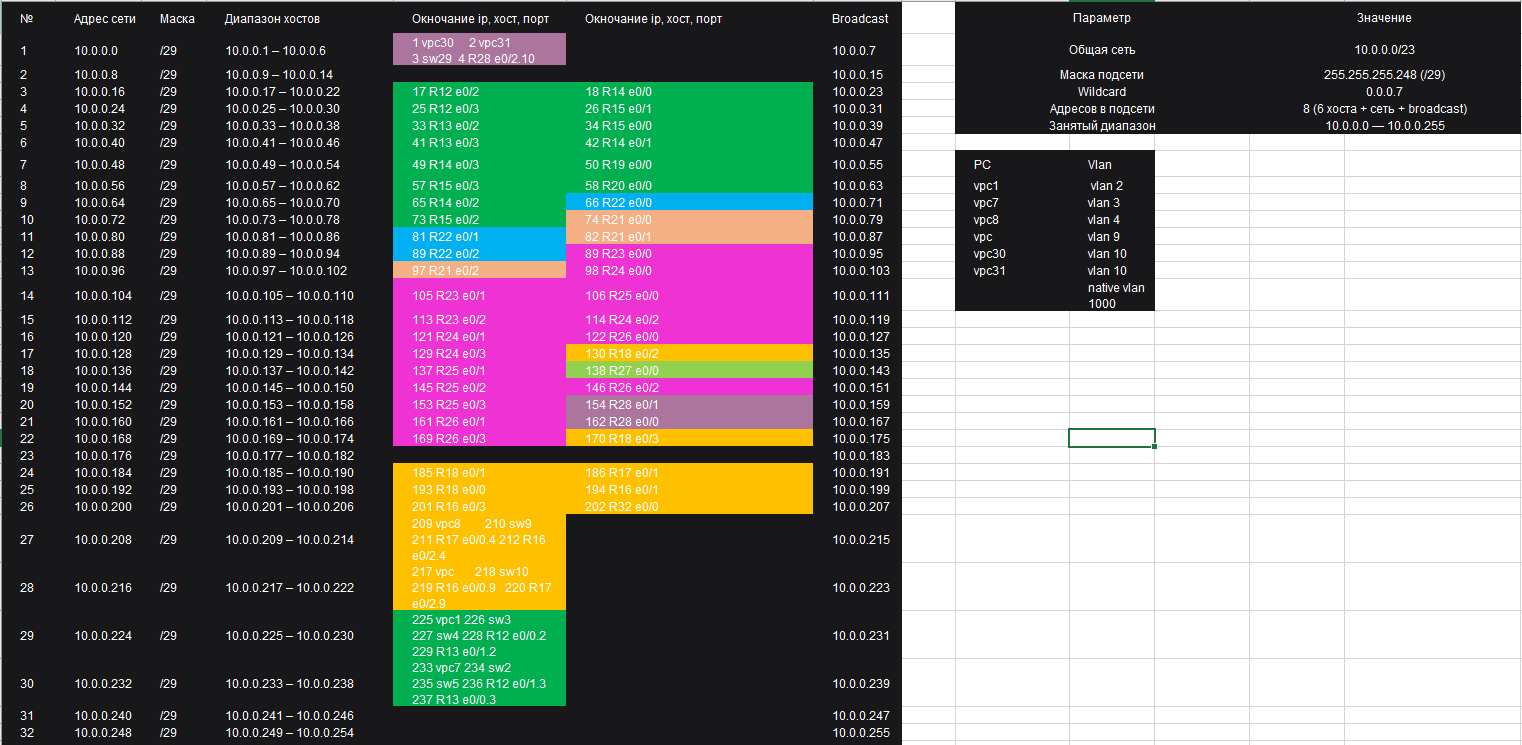
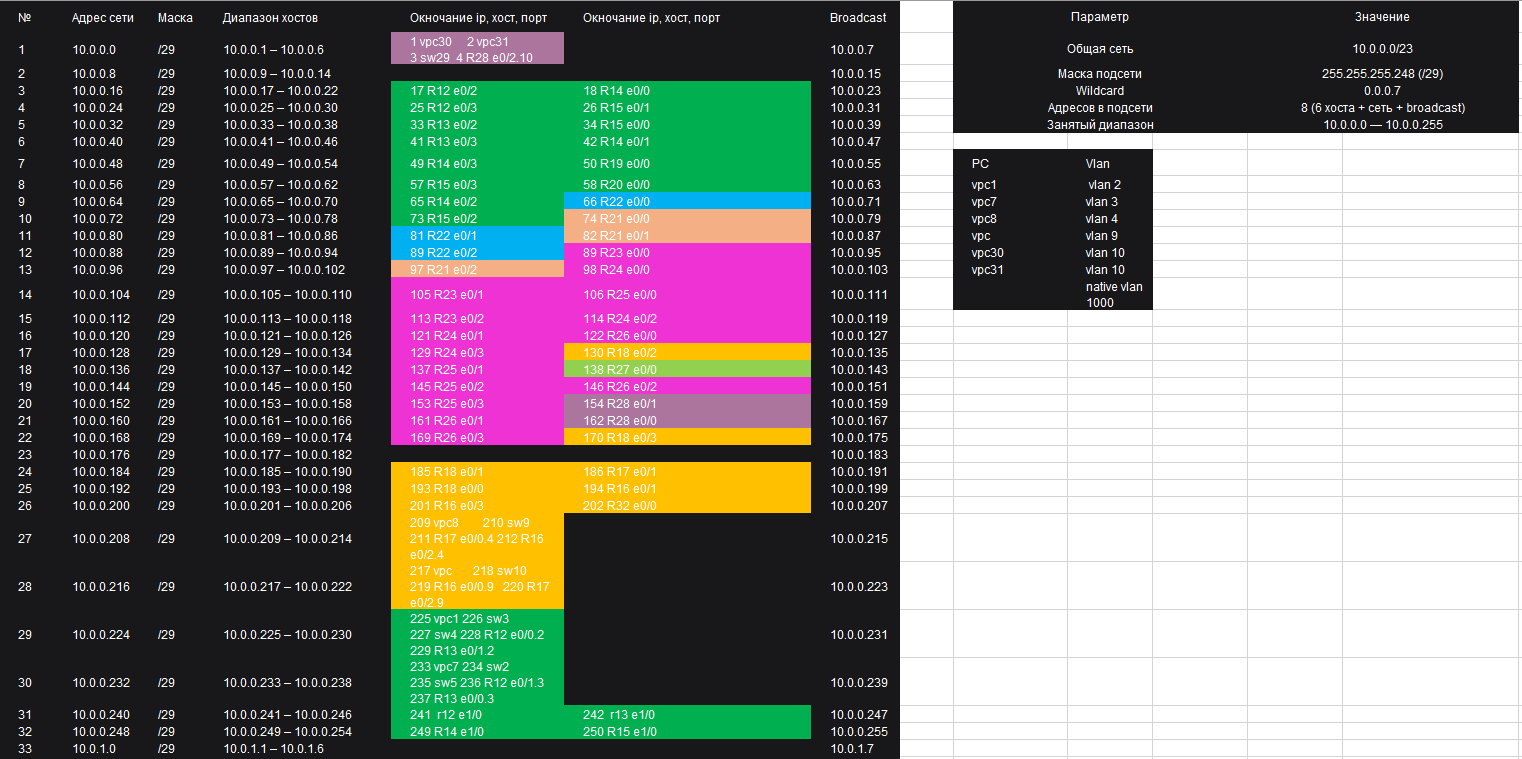
1

diff --git a/9 lesson/Readme.md b/9 lesson/Readme.md
@@ -1,0 +1,6 @@
+## Домашнее задание
+
+<img src="/9 lesson/img/0.png" alt="Alt text"/>
+
+#### Создаем ACL листы
+
